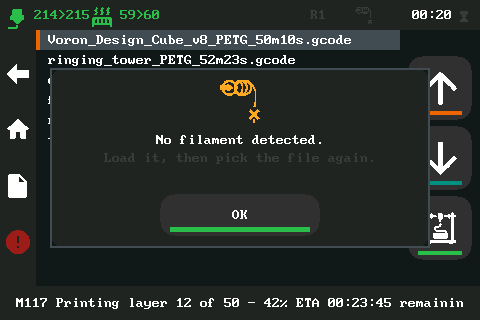
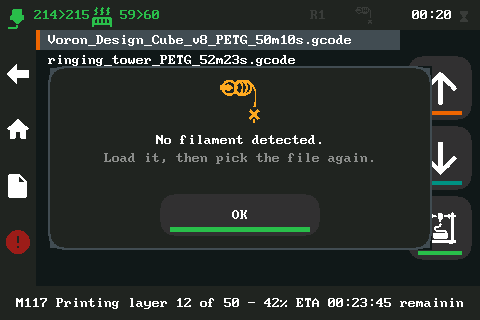
gui: notice with a rounded outline and lighter secondary text
- the outline is a rounded box (a slightly larger rounded rect behind the
  panel) instead of four square strips
- COL_DIM2 (#8C8C8C): the notice hint and the Info labels use it instead
  of the very dark COL_DIM

diff --git a/mcu/st7796.py b/mcu/st7796.py
@@ -34,6 +34,7 @@ COL_HEAT   = 0xEB20   # #ED6500  orange  -> heating towards the target
 COL_OK     = 0x2DE9   # #2DBF4A  green   -> at/over the target (-3C)
 COL_COOL   = 0x061A   # #26C6DA  cyan    -> cooling (target 0)
 COL_DIM    = 0x39E7   # #3A3A3A  grey    -> disabled rail icons
+COL_DIM2   = 0x8C71   # #8C8C8C  lighter grey -> secondary text
 COL_PREVIEW = COL_C3  # #009384  teal (theme accent) -> object preview
 # Usual 3D axis colours for the position readout.
 COL_AXIS_X = 0xF800   # red
@@ -3676,18 +3677,17 @@ class ST7796:
         w, h = 380, 180
         x = (self.width - w) // 2
         y = self.TOP_H + (self.height - self.STRIP_H - self.TOP_H - h) // 2
-        ops.append(lambda: self._gui_round(x, y, w, h, bg))
-        # outline, so the box reads without painting the whole screen
-        for (ox, oy, ow, oh) in ((x, y, w, 2), (x, y + h - 2, w, 2),
-                                 (x, y, 2, h), (x + w - 2, y, 2, h)):
-            ops.append(lambda ox=ox, oy=oy, ow=ow, oh=oh: self.cmd_rect.send(
-                [ox, oy, ow, oh, COL_ACTIVE]))
+        # rounded outline: a slightly larger box in the border colour, the
+        # panel drawn on top with its corners cleared to that same colour
+        ops.append(lambda: self._gui_round(x - 2, y - 2, w + 4, h + 4,
+                                           COL_ACTIVE))
+        ops.append(lambda: self._gui_round(x, y, w, h, bg, COL_ACTIVE))
         ops.append(lambda: self._gui_icon_at('filnout', x + (w - 46) // 2,
                                              y + 10, COL_WARN, bg, 46))
         for i, txt in enumerate(lines[:2]):
             ops.append(lambda i=i, txt=txt, x=x, w=w, y=y, bg=bg:
                        self._gui_text_center(x, w, y + 64 + i * 18, txt,
-                                             COL_WHITE if i == 0 else COL_DIM,
+                                             COL_WHITE if i == 0 else COL_DIM2,
                                              bg, 1))
         bw, bh = self._notice_ok_btn()
         bx = x + (w - bw) // 2
@@ -3784,7 +3784,7 @@ class ST7796:
             ops.append(lambda yy=yy, col=col: self.cmd_rect.send(
                 [x0, yy + 1, 4, 26, col]))
             ops.append(lambda yy=yy, lab=lab: self._gui_text(
-                x0 + 12, yy, lab, COL_DIM, COL_BG, 1))
+                x0 + 12, yy, lab, COL_DIM2, COL_BG, 1))
             ops.append(lambda yy=yy, val=val, col=col: self._gui_text(
                 x0 + 12, yy + 14, val, col, COL_BG, 1))
         ops.append(lambda: self._gui_text_center(
